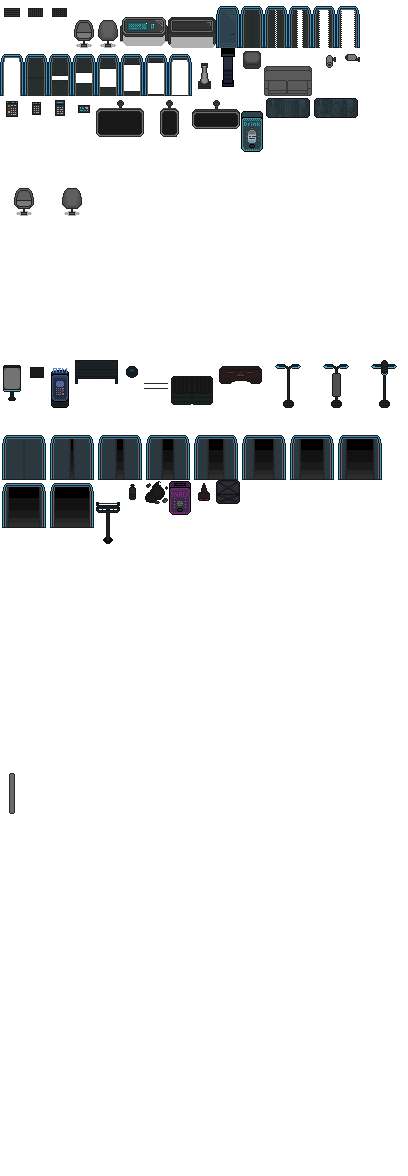
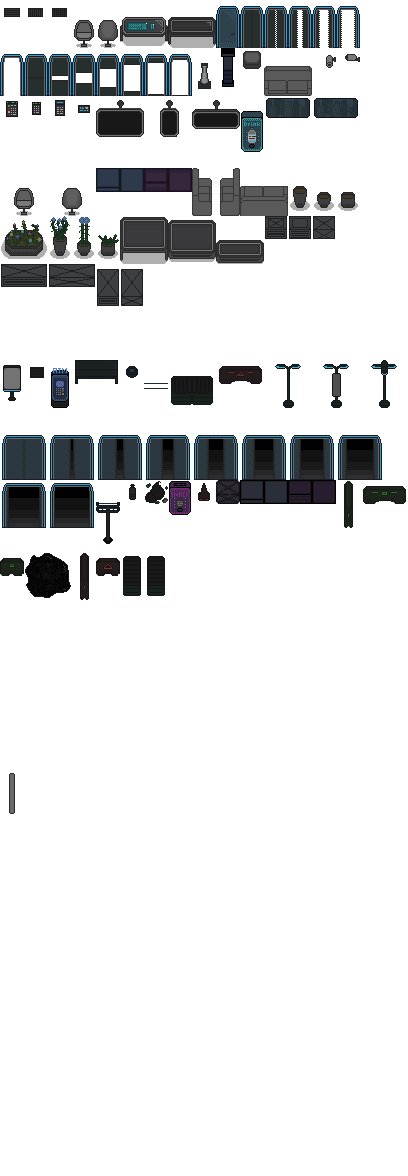
Fixed first level and tweaked putted the right objects in the tileset

Changed region(s): [[0.0, 0.1224, 0.8824, 0.2755], [0.0, 0.4592, 0.4118, 0.5204], [0.5882, 0.398, 1.0, 0.4592]]

diff --git a/src/ZeroFootprintSociety/Content/Maps2/Walls.tsx b/src/ZeroFootprintSociety/Content/Maps2/Walls.tsx
@@ -1,6 +1,6 @@
 <?xml version="1.0" encoding="UTF-8"?>
-<tileset name="Walls" tilewidth="24" tileheight="24" tilecount="180" columns="9">
- <image source="Walls.png" width="216" height="360"/>
+<tileset name="Walls" tilewidth="24" tileheight="24" tilecount="207" columns="9">
+ <image source="Walls.png" width="216" height="552"/>
  <tile id="0">
   <properties>
    <property name="Blocking" type="bool" value="true"/>
@@ -135,25 +135,25 @@
  </tile>
  <tile id="22">
   <properties>
-   <property name="Blocking" type="bool" value="false"/>
+   <property name="Blocking" type="bool" value="true"/>
    <property name="Cover" value="Heavy"/>
   </properties>
  </tile>
  <tile id="23">
   <properties>
-   <property name="Blocking" type="bool" value="false"/>
+   <property name="Blocking" type="bool" value="true"/>
    <property name="Cover" value="Heavy"/>
   </properties>
  </tile>
  <tile id="24">
   <properties>
-   <property name="Blocking" type="bool" value="false"/>
+   <property name="Blocking" type="bool" value="true"/>
    <property name="Cover" value="Heavy"/>
   </properties>
  </tile>
  <tile id="25">
   <properties>
-   <property name="Blocking" type="bool" value="false"/>
+   <property name="Blocking" type="bool" value="true"/>
    <property name="Cover" value="Heavy"/>
   </properties>
  </tile>
@@ -405,7 +405,7 @@
  </tile>
  <tile id="67">
   <properties>
-   <property name="Blocking" type="bool" value="false"/>
+   <property name="Blocking" type="bool" value="true"/>
    <property name="Cover" value="Heavy"/>
   </properties>
  </tile>
@@ -567,7 +567,7 @@
  </tile>
  <tile id="94">
   <properties>
-   <property name="Blocking" type="bool" value="false"/>
+   <property name="Blocking" type="bool" value="true"/>
    <property name="Cover" value="Heavy"/>
   </properties>
  </tile>
@@ -1076,6 +1076,168 @@
   </properties>
  </tile>
  <tile id="179">
+  <properties>
+   <property name="Blocking" type="bool" value="true"/>
+   <property name="Cover" value="Heavy"/>
+  </properties>
+ </tile>
+ <tile id="180">
+  <properties>
+   <property name="Blocking" type="bool" value="true"/>
+   <property name="Cover" value="Heavy"/>
+  </properties>
+ </tile>
+ <tile id="181">
+  <properties>
+   <property name="Blocking" type="bool" value="true"/>
+   <property name="Cover" value="Heavy"/>
+  </properties>
+ </tile>
+ <tile id="182">
+  <properties>
+   <property name="Blocking" type="bool" value="true"/>
+   <property name="Cover" value="Heavy"/>
+  </properties>
+ </tile>
+ <tile id="183">
+  <properties>
+   <property name="Blocking" type="bool" value="true"/>
+   <property name="Cover" value="Heavy"/>
+  </properties>
+ </tile>
+ <tile id="184">
+  <properties>
+   <property name="Blocking" type="bool" value="true"/>
+   <property name="Cover" value="Heavy"/>
+  </properties>
+ </tile>
+ <tile id="185">
+  <properties>
+   <property name="Blocking" type="bool" value="true"/>
+   <property name="Cover" value="Heavy"/>
+  </properties>
+ </tile>
+ <tile id="186">
+  <properties>
+   <property name="Blocking" type="bool" value="true"/>
+   <property name="Cover" value="Heavy"/>
+  </properties>
+ </tile>
+ <tile id="187">
+  <properties>
+   <property name="Blocking" type="bool" value="true"/>
+   <property name="Cover" value="Heavy"/>
+  </properties>
+ </tile>
+ <tile id="188">
+  <properties>
+   <property name="Blocking" type="bool" value="true"/>
+   <property name="Cover" value="Heavy"/>
+  </properties>
+ </tile>
+ <tile id="189">
+  <properties>
+   <property name="Blocking" type="bool" value="true"/>
+   <property name="Cover" value="Heavy"/>
+  </properties>
+ </tile>
+ <tile id="190">
+  <properties>
+   <property name="Blocking" type="bool" value="true"/>
+   <property name="Cover" value="Heavy"/>
+  </properties>
+ </tile>
+ <tile id="191">
+  <properties>
+   <property name="Blocking" type="bool" value="true"/>
+   <property name="Cover" value="Heavy"/>
+  </properties>
+ </tile>
+ <tile id="192">
+  <properties>
+   <property name="Blocking" type="bool" value="true"/>
+   <property name="Cover" value="Heavy"/>
+  </properties>
+ </tile>
+ <tile id="193">
+  <properties>
+   <property name="Blocking" type="bool" value="true"/>
+   <property name="Cover" value="Heavy"/>
+  </properties>
+ </tile>
+ <tile id="194">
+  <properties>
+   <property name="Blocking" type="bool" value="true"/>
+   <property name="Cover" value="Heavy"/>
+  </properties>
+ </tile>
+ <tile id="195">
+  <properties>
+   <property name="Blocking" type="bool" value="true"/>
+   <property name="Cover" value="Heavy"/>
+  </properties>
+ </tile>
+ <tile id="196">
+  <properties>
+   <property name="Blocking" type="bool" value="true"/>
+   <property name="Cover" value="Heavy"/>
+  </properties>
+ </tile>
+ <tile id="197">
+  <properties>
+   <property name="Blocking" type="bool" value="true"/>
+   <property name="Cover" value="Heavy"/>
+  </properties>
+ </tile>
+ <tile id="198">
+  <properties>
+   <property name="Blocking" type="bool" value="true"/>
+   <property name="Cover" value="Heavy"/>
+  </properties>
+ </tile>
+ <tile id="199">
+  <properties>
+   <property name="Blocking" type="bool" value="true"/>
+   <property name="Cover" value="Heavy"/>
+  </properties>
+ </tile>
+ <tile id="200">
+  <properties>
+   <property name="Blocking" type="bool" value="true"/>
+   <property name="Cover" value="Heavy"/>
+  </properties>
+ </tile>
+ <tile id="201">
+  <properties>
+   <property name="Blocking" type="bool" value="true"/>
+   <property name="Cover" value="Heavy"/>
+  </properties>
+ </tile>
+ <tile id="202">
+  <properties>
+   <property name="Blocking" type="bool" value="true"/>
+   <property name="Cover" value="Heavy"/>
+  </properties>
+ </tile>
+ <tile id="203">
+  <properties>
+   <property name="Blocking" type="bool" value="true"/>
+   <property name="Cover" value="Heavy"/>
+  </properties>
+ </tile>
+ <tile id="204">
+  <properties>
+   <property name="Blocking" type="bool" value="true"/>
+   <property name="Cover" value="Heavy"/>
+  </properties>
+ </tile>
+ <tile id="205">
+  <properties>
+   <property name="Blocking" type="bool" value="true"/>
+   <property name="Cover" value="Heavy"/>
+  </properties>
+ </tile>
+ <tile id="206">
   <properties>
    <property name="Blocking" type="bool" value="true"/>
    <property name="Cover" value="Heavy"/>
